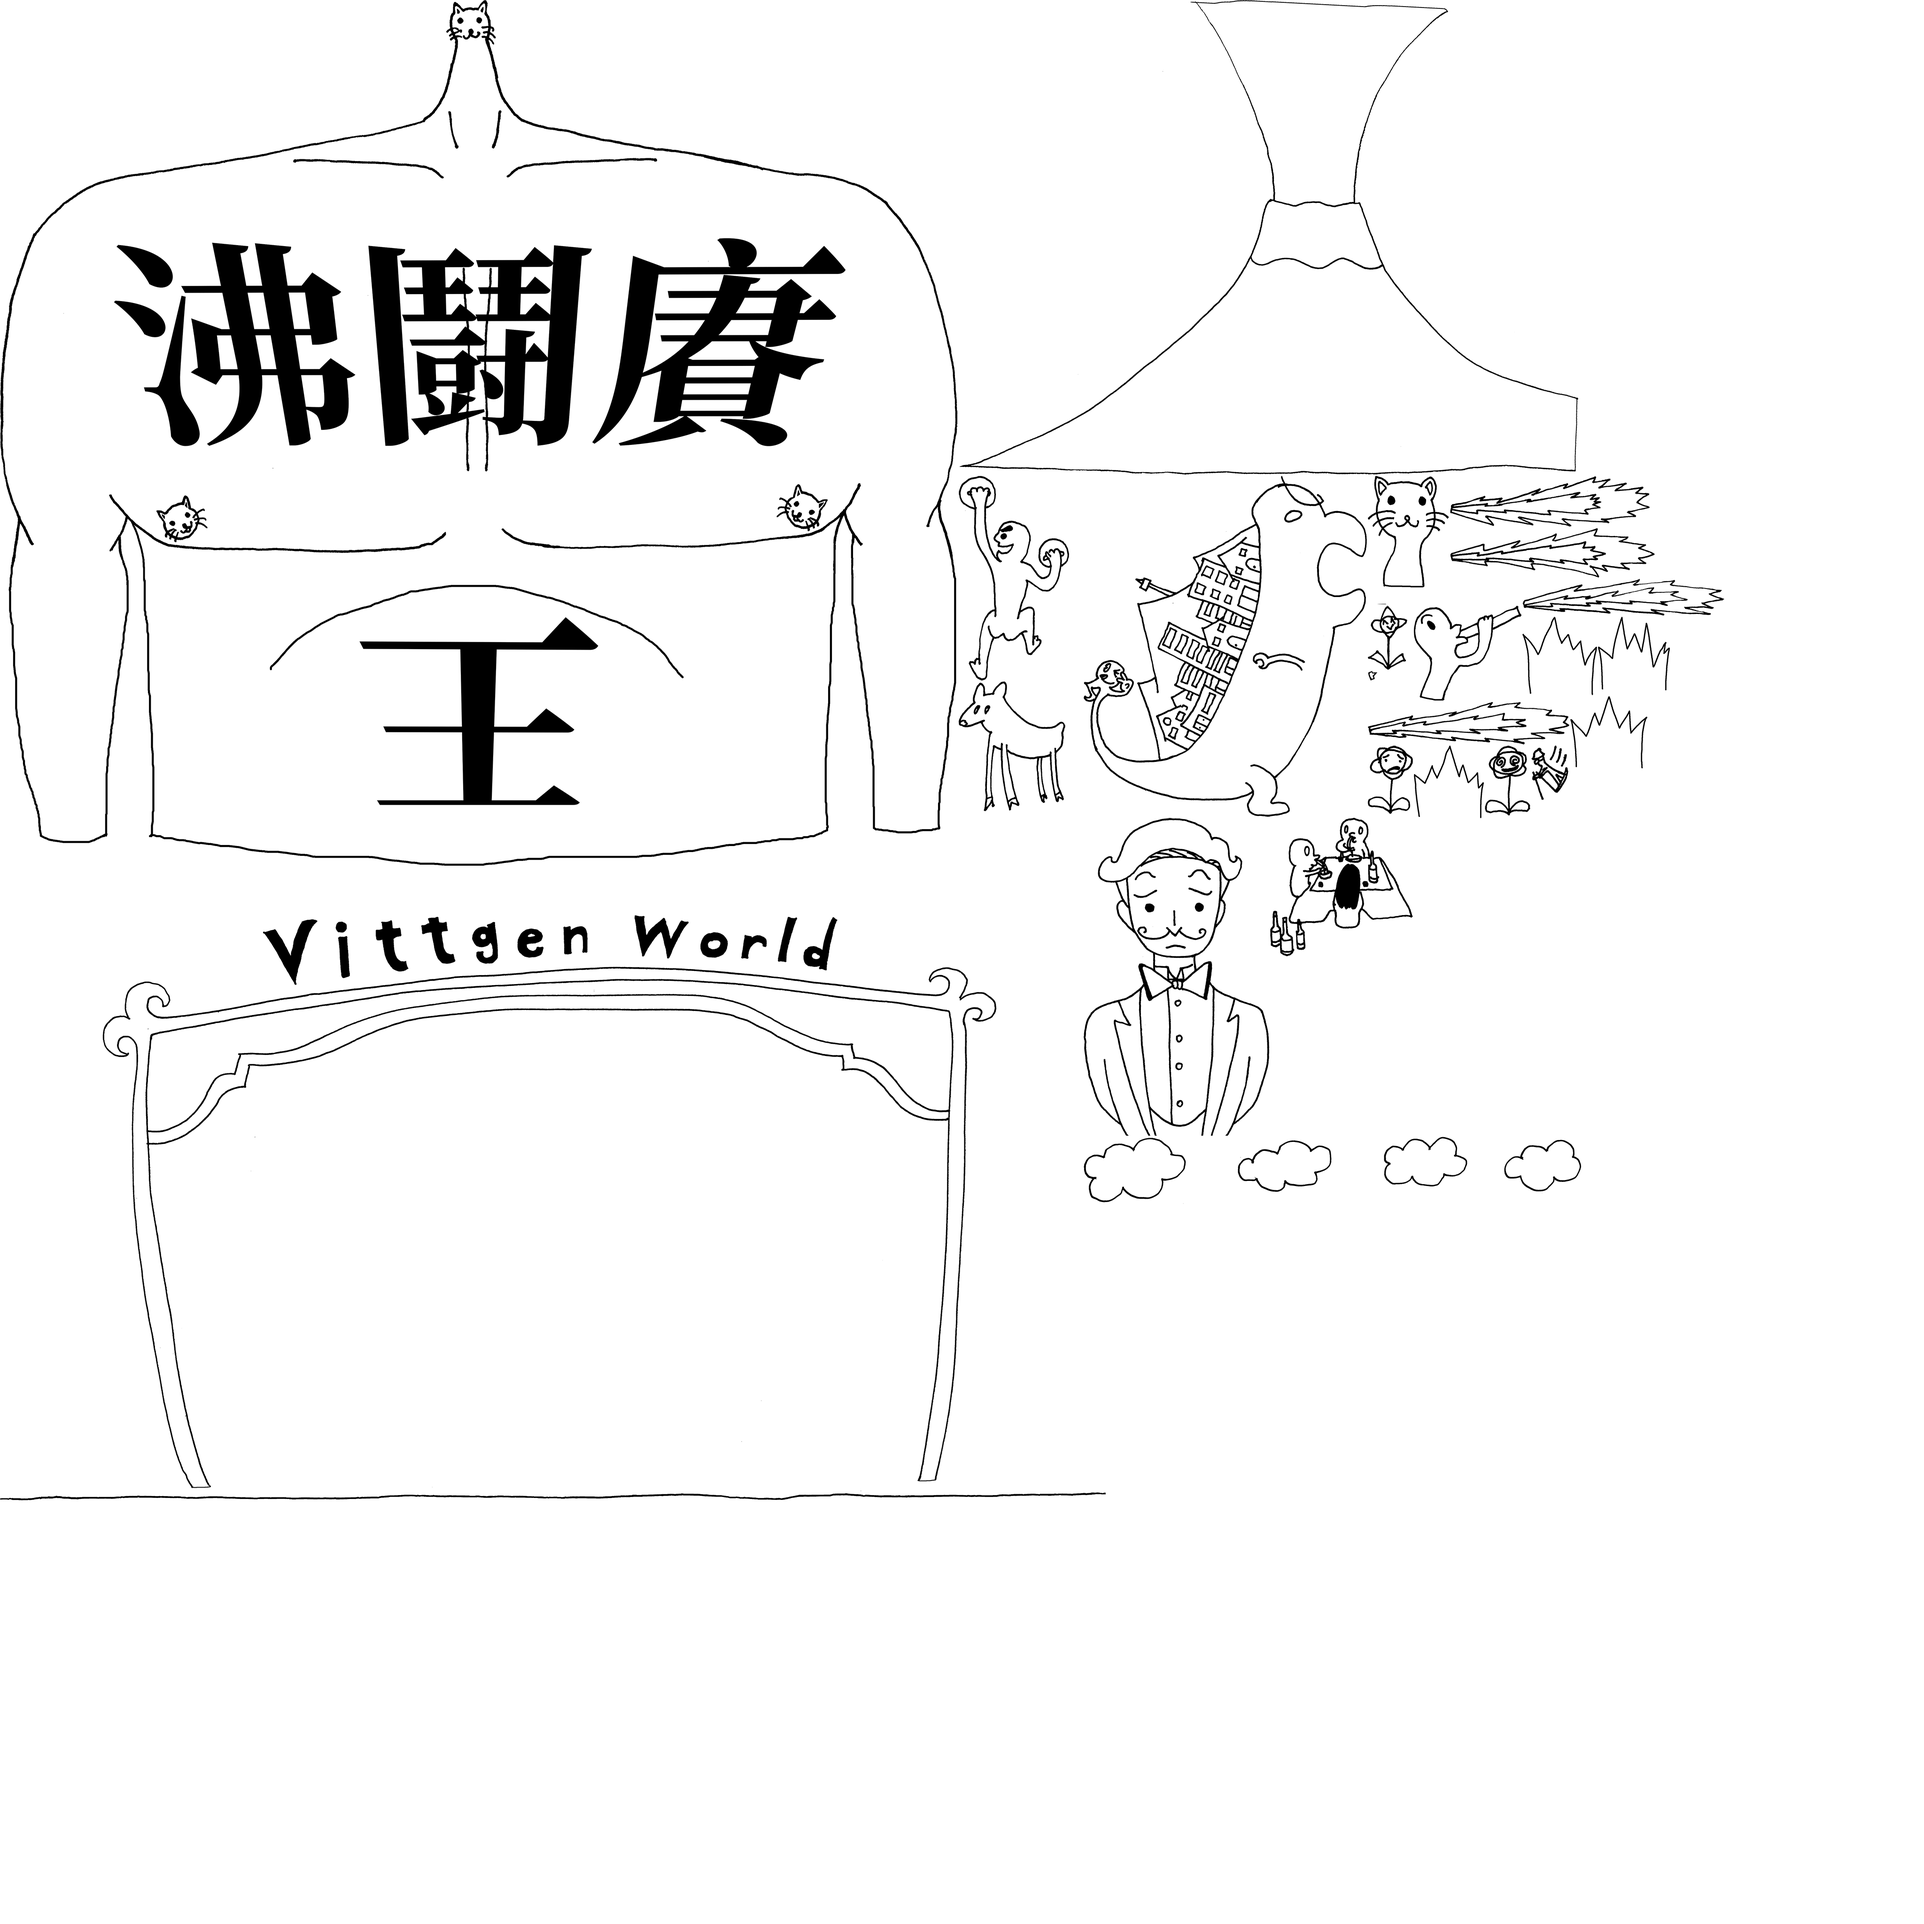
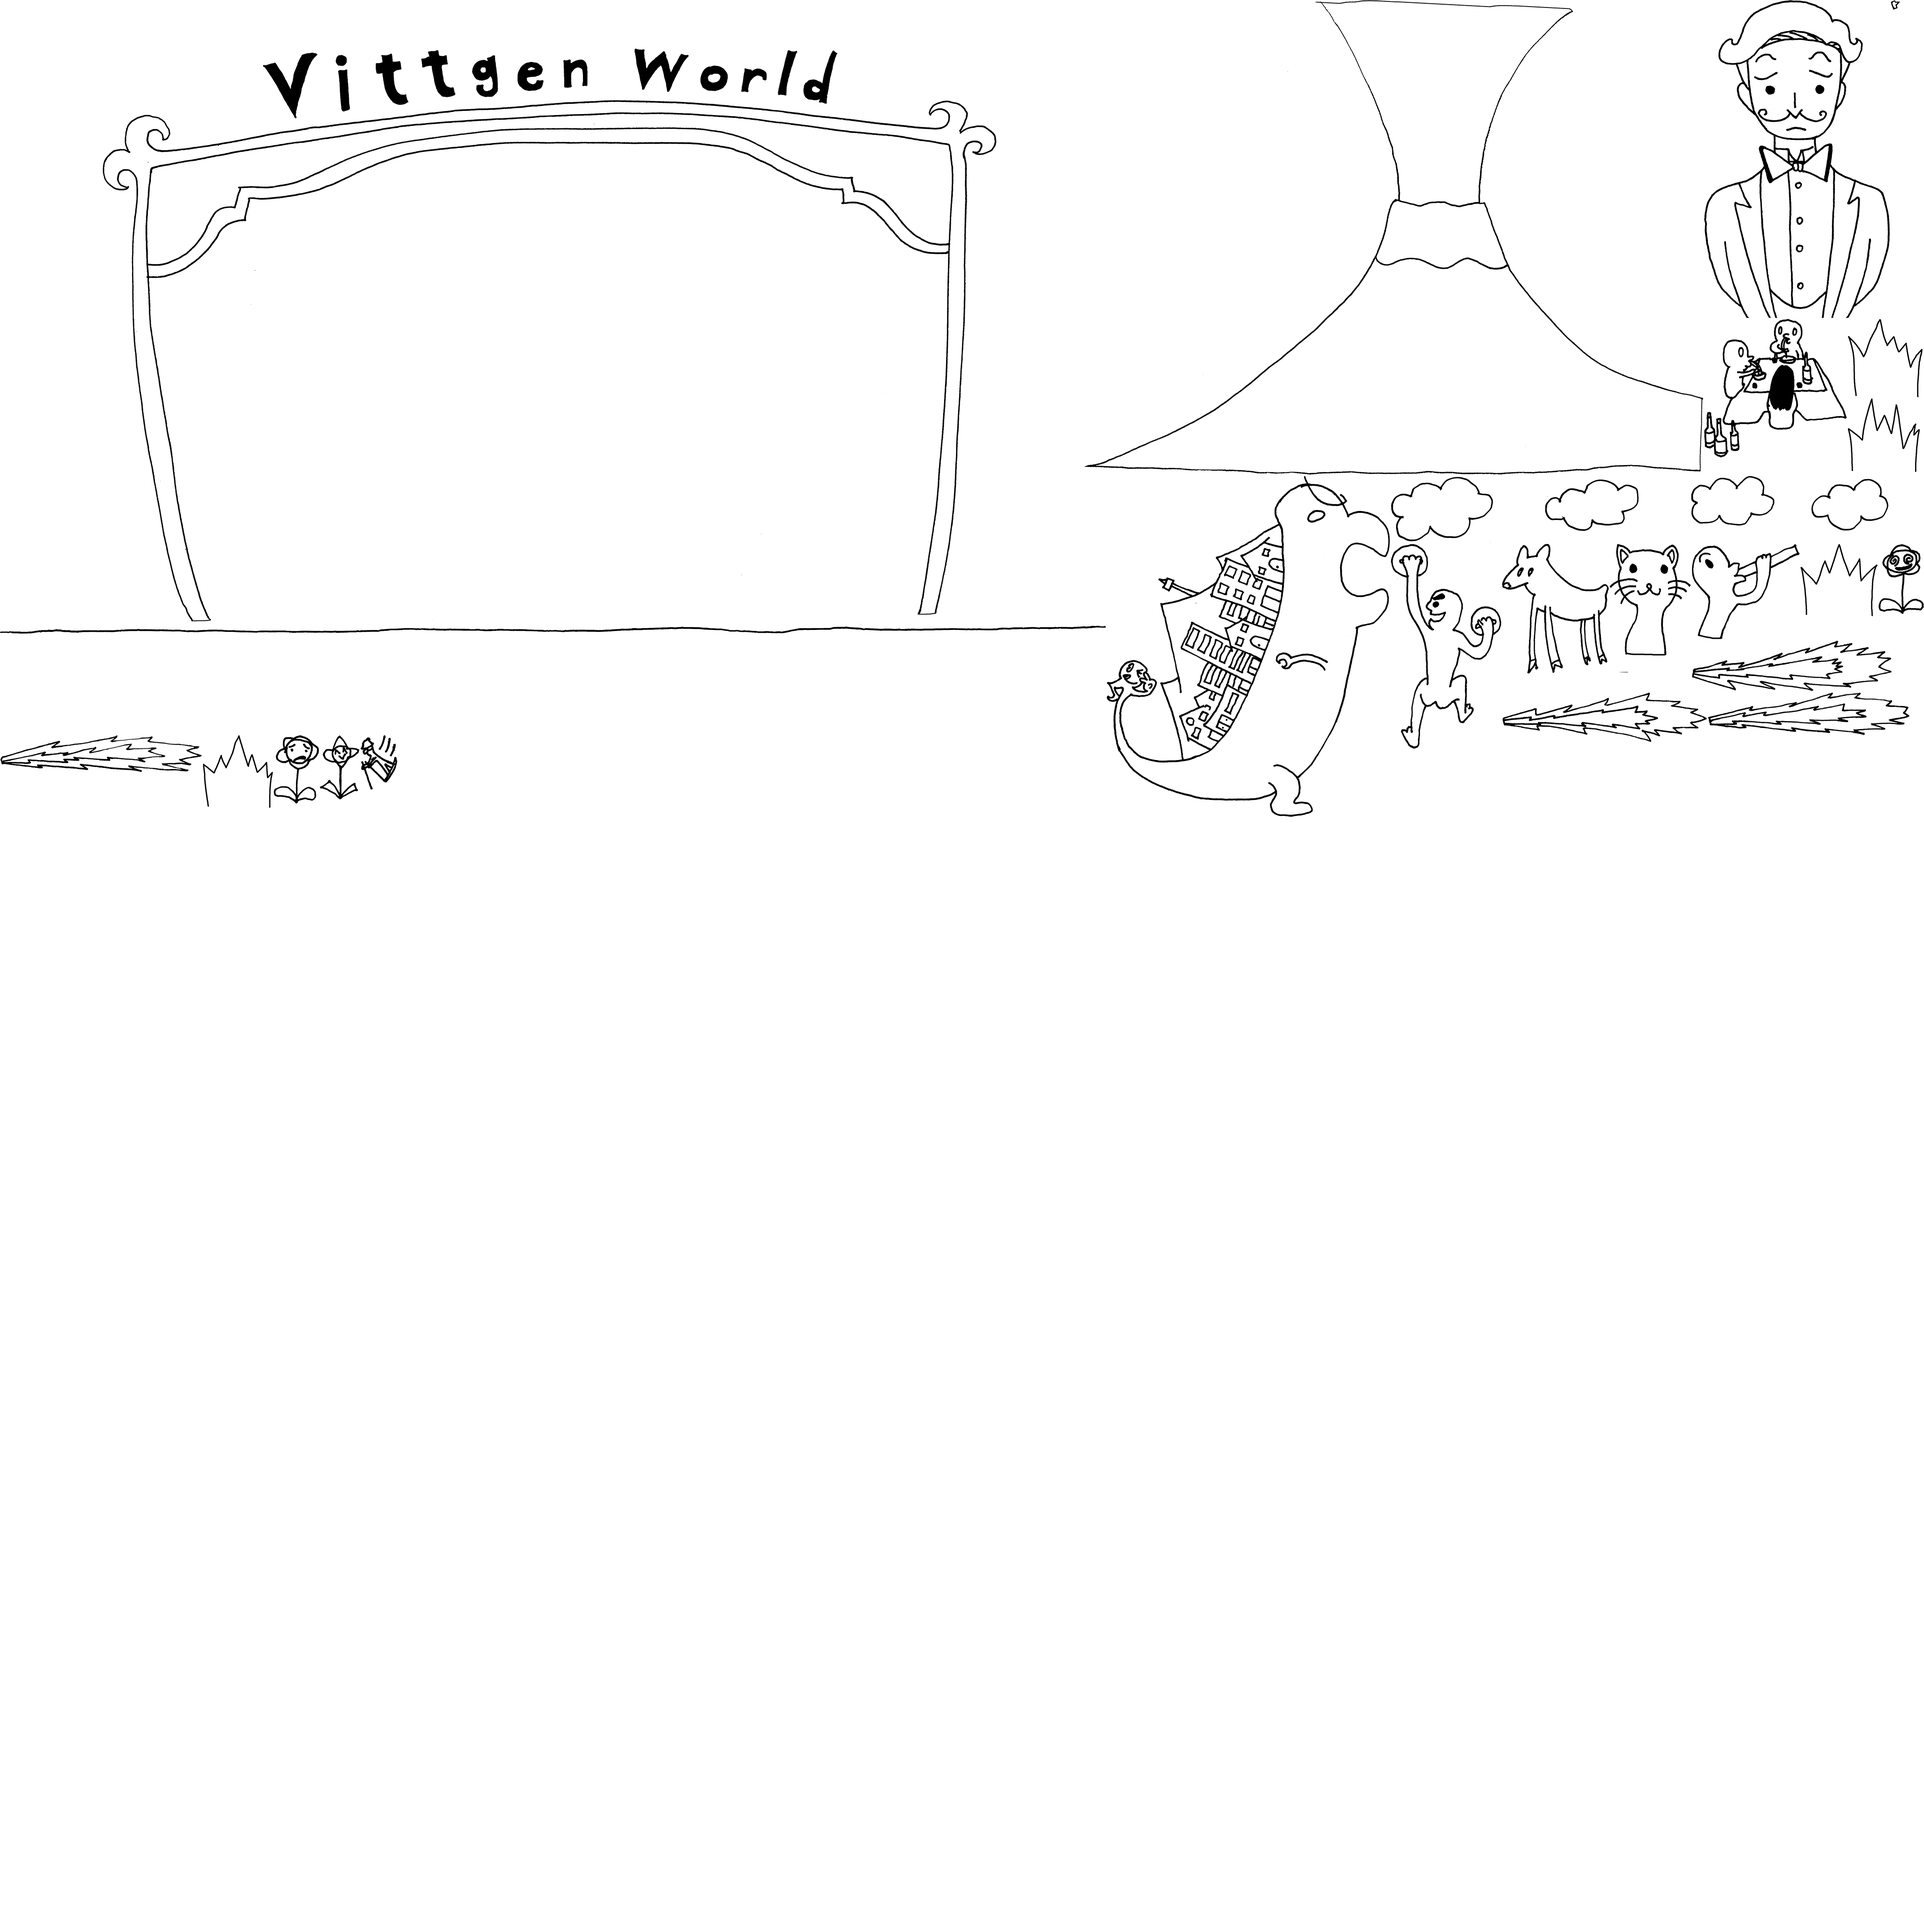
최적화

diff --git a/main.js b/main.js
@@ -3,7 +3,7 @@
 var p; // shortcut to reference prototypes
 var lib={};var ss={};var img={};
 lib.ssMetadata = [
-		{name:"main_atlas_", frames: [[0,0,2039,1843],[2041,1013,235,436],[3260,1587,79,116],[2307,1741,395,677],[0,1845,2305,1330],[2912,1494,429,91],[3087,1013,426,109],[3241,1232,430,79],[3087,1124,436,106],[2307,1013,603,726],[2307,2420,1059,143],[2704,1741,304,295],[2912,1013,173,274],[3161,1587,97,149],[2912,1289,84,137],[2912,1587,96,146],[3343,1482,164,154],[3402,1313,153,157],[3241,1313,159,167],[3010,1587,149,155],[2041,0,1319,1011],[0,3177,2354,231],[2041,1451,227,276],[2912,1428,20,21],[3010,1289,229,203]]}
+		{name:"main_atlas_", frames: [[2961,1158,235,436],[767,1565,79,116],[3628,0,395,677],[0,0,2305,1330],[3636,1474,429,91],[3602,1363,426,109],[0,1565,430,79],[3198,1474,436,106],[2356,1013,603,726],[2961,1013,1059,143],[3628,679,304,295],[3427,1158,173,274],[3999,1158,97,149],[681,1565,84,137],[583,1565,96,146],[3833,1158,164,154],[3934,848,153,157],[3934,679,159,167],[432,1565,149,155],[2307,0,1319,1011],[0,1332,2354,231],[3198,1158,227,276],[4025,0,20,21],[3602,1158,229,203]]}
 ];
 
 
@@ -11,177 +11,170 @@ lib.ssMetadata = [
 
 
 
-(lib.bigcat = function() {
+(lib.sprite1_0000_오른쪽클라이머 = function() {
 	this.spriteSheet = ss["main_atlas_"];
 	this.gotoAndStop(0);
 }).prototype = p = new cjs.Sprite();
 
 
 
-(lib.sprite1_0000_오른쪽클라이머 = function() {
+(lib.sprite1_0001_화산스키선수 = function() {
 	this.spriteSheet = ss["main_atlas_"];
 	this.gotoAndStop(1);
 }).prototype = p = new cjs.Sprite();
 
 
 
-(lib.sprite1_0001_화산스키선수 = function() {
+(lib.sprite1_0003_입다문아저씨 = function() {
 	this.spriteSheet = ss["main_atlas_"];
 	this.gotoAndStop(2);
 }).prototype = p = new cjs.Sprite();
 
 
 
-(lib.sprite1_0003_입다문아저씨 = function() {
+(lib.sprite1_0005_무대 = function() {
 	this.spriteSheet = ss["main_atlas_"];
 	this.gotoAndStop(3);
 }).prototype = p = new cjs.Sprite();
 
 
 
-(lib.sprite1_0005_무대 = function() {
+(lib.sprite1_0006_조선룡불꽃4 = function() {
 	this.spriteSheet = ss["main_atlas_"];
 	this.gotoAndStop(4);
 }).prototype = p = new cjs.Sprite();
 
 
 
-(lib.sprite1_0006_조선룡불꽃4 = function() {
+(lib.sprite1_0007_조선룡불꽃3 = function() {
 	this.spriteSheet = ss["main_atlas_"];
 	this.gotoAndStop(5);
 }).prototype = p = new cjs.Sprite();
 
 
 
-(lib.sprite1_0007_조선룡불꽃3 = function() {
+(lib.sprite1_0008_조선룡불꽃2 = function() {
 	this.spriteSheet = ss["main_atlas_"];
 	this.gotoAndStop(6);
 }).prototype = p = new cjs.Sprite();
 
 
 
-(lib.sprite1_0008_조선룡불꽃2 = function() {
+(lib.sprite1_0009_조선룡불꽃1 = function() {
 	this.spriteSheet = ss["main_atlas_"];
 	this.gotoAndStop(7);
 }).prototype = p = new cjs.Sprite();
 
 
 
-(lib.sprite1_0009_조선룡불꽃1 = function() {
+(lib.sprite1_0010_조선룡 = function() {
 	this.spriteSheet = ss["main_atlas_"];
 	this.gotoAndStop(8);
 }).prototype = p = new cjs.Sprite();
 
 
 
-(lib.sprite1_0010_조선룡 = function() {
+(lib.sprite1_0011_구름 = function() {
 	this.spriteSheet = ss["main_atlas_"];
 	this.gotoAndStop(9);
 }).prototype = p = new cjs.Sprite();
 
 
 
-(lib.sprite1_0011_구름 = function() {
+(lib.sprite1_0012_비트겐 = function() {
 	this.spriteSheet = ss["main_atlas_"];
 	this.gotoAndStop(10);
 }).prototype = p = new cjs.Sprite();
 
 
 
-(lib.sprite1_0012_비트겐 = function() {
+(lib.sprite1_0013_왼쪽고양이 = function() {
 	this.spriteSheet = ss["main_atlas_"];
 	this.gotoAndStop(11);
 }).prototype = p = new cjs.Sprite();
 
 
 
-(lib.sprite1_0013_왼쪽고양이 = function() {
+(lib.sprite1_0014_취한꽃 = function() {
 	this.spriteSheet = ss["main_atlas_"];
 	this.gotoAndStop(12);
 }).prototype = p = new cjs.Sprite();
 
 
 
-(lib.sprite1_0014_취한꽃 = function() {
+(lib.sprite1_0015_웃는꽃 = function() {
 	this.spriteSheet = ss["main_atlas_"];
 	this.gotoAndStop(13);
 }).prototype = p = new cjs.Sprite();
 
 
 
-(lib.sprite1_0015_웃는꽃 = function() {
+(lib.sprite1_0016_짜증나는꽃 = function() {
 	this.spriteSheet = ss["main_atlas_"];
 	this.gotoAndStop(14);
 }).prototype = p = new cjs.Sprite();
 
 
 
-(lib.sprite1_0016_짜증나는꽃 = function() {
+(lib.sprite1_0018_화산폭발효과4 = function() {
 	this.spriteSheet = ss["main_atlas_"];
 	this.gotoAndStop(15);
 }).prototype = p = new cjs.Sprite();
 
 
 
-(lib.sprite1_0018_화산폭발효과4 = function() {
+(lib.sprite1_0019_화산폭발효과3 = function() {
 	this.spriteSheet = ss["main_atlas_"];
 	this.gotoAndStop(16);
 }).prototype = p = new cjs.Sprite();
 
 
 
-(lib.sprite1_0019_화산폭발효과3 = function() {
+(lib.sprite1_0020_화산폭발효과2 = function() {
 	this.spriteSheet = ss["main_atlas_"];
 	this.gotoAndStop(17);
 }).prototype = p = new cjs.Sprite();
 
 
 
-(lib.sprite1_0020_화산폭발효과2 = function() {
+(lib.sprite1_0021_화산폭발효과1 = function() {
 	this.spriteSheet = ss["main_atlas_"];
 	this.gotoAndStop(18);
 }).prototype = p = new cjs.Sprite();
 
 
 
-(lib.sprite1_0021_화산폭발효과1 = function() {
+(lib.sprite1_0022_화산 = function() {
 	this.spriteSheet = ss["main_atlas_"];
 	this.gotoAndStop(19);
 }).prototype = p = new cjs.Sprite();
 
 
 
-(lib.sprite1_0022_화산 = function() {
+(lib.sprite1_0023_바닥 = function() {
 	this.spriteSheet = ss["main_atlas_"];
 	this.gotoAndStop(20);
 }).prototype = p = new cjs.Sprite();
 
 
 
-(lib.sprite1_0023_바닥 = function() {
+(lib.sprite1_0025_고라니 = function() {
 	this.spriteSheet = ss["main_atlas_"];
 	this.gotoAndStop(21);
 }).prototype = p = new cjs.Sprite();
 
 
 
-(lib.sprite1_0025_고라니 = function() {
+(lib.독침 = function() {
 	this.spriteSheet = ss["main_atlas_"];
 	this.gotoAndStop(22);
 }).prototype = p = new cjs.Sprite();
 
 
 
-(lib.독침 = function() {
-	this.spriteSheet = ss["main_atlas_"];
-	this.gotoAndStop(23);
-}).prototype = p = new cjs.Sprite();
-
-
-
 (lib.독침맨png복사본 = function() {
 	this.spriteSheet = ss["main_atlas_"];
-	this.gotoAndStop(24);
+	this.gotoAndStop(23);
 }).prototype = p = new cjs.Sprite();
 // helper functions:
 
@@ -363,6 +356,20 @@ p.nominalBounds = new cjs.Rectangle(0,0,596.2,457);
 	this.timeline.addTween(cjs.Tween.get(this.instance).wait(1));
 
 }).prototype = getMCSymbolPrototype(lib.team, new cjs.Rectangle(-106,-156,205.2,199.1), null);
+
+
+(lib.Main = function(mode,startPosition,loop) {
+	this.initialize(mode,startPosition,loop,{});
+
+	// 레이어_1
+	this.instance = new lib.sprite1_0003_입다문아저씨();
+	this.instance.parent = this;
+	this.instance.setTransform(-134.3,-230.2,0.68,0.68);
+
+	this.timeline.addTween(cjs.Tween.get(this.instance).wait(1).to({scaleX:0.71,scaleY:0.71,x:-140,y:-240},0).wait(1));
+
+}).prototype = p = new cjs.MovieClip();
+p.nominalBounds = new cjs.Rectangle(-134.3,-230.2,268.7,460.5);
 
 
 (lib.Gorany = function(mode,startPosition,loop) {
@@ -561,13 +568,14 @@ p.nominalBounds = new cjs.Rectangle(-1520,200,1564.7,592.4);
 	this.initialize(mode,startPosition,loop,{});
 
 	// 아저씨
-	this.instance = new lib.climer();
+	this.instance = new lib.Main();
 	this.instance.parent = this;
-	this.instance.setTransform(1534.3,415.9);
+	this.instance.setTransform(781.3,745.2);
+	new cjs.ButtonHelper(this.instance, 0, 1, 1);
 
-	this.instance_1 = new lib.sprite1_0003_입다문아저씨();
+	this.instance_1 = new lib.climer();
 	this.instance_1.parent = this;
-	this.instance_1.setTransform(647,515,0.68,0.68);
+	this.instance_1.setTransform(1534.3,415.9);
 
 	this.instance_2 = new lib.sprite1_0005_무대();
 	this.instance_2.parent = this;
@@ -630,14 +638,10 @@ p.nominalBounds = new cjs.Rectangle(-1520,200,1564.7,592.4);
 	this.instance_12.parent = this;
 	this.instance_12.setTransform(1706.1,423.9,1.588,1.588,0,0,0,261.9,35.4);
 
-	this.instance_13 = new lib.bigcat();
-	this.instance_13.parent = this;
-	this.instance_13.setTransform(125.8,-183.3,0.566,0.566,5);
-
-	this.timeline.addTween(cjs.Tween.get({}).to({state:[{t:this.instance_13},{t:this.instance_12},{t:this.instance_11},{t:this.instance_10},{t:this.instance_9}]}).wait(1));
+	this.timeline.addTween(cjs.Tween.get({}).to({state:[{t:this.instance_12},{t:this.instance_11},{t:this.instance_10},{t:this.instance_9}]}).wait(1));
 
 }).prototype = p = new cjs.MovieClip();
-p.nominalBounds = new cjs.Rectangle(723,316.7,2193,1431);
+p.nominalBounds = new cjs.Rectangle(723,456,2193,1291.7);
 // library properties:
 lib.properties = {
 	id: '49B61085D53CCC44B86B0C1022297DD9',
@@ -647,7 +651,7 @@ lib.properties = {
 	color: "#FFFFFF",
 	opacity: 1.00,
 	manifest: [
-		{src:"images/main_atlas_.png?1537102973405", id:"main_atlas_"}
+		{src:"images/main_atlas_.png?1537114745301", id:"main_atlas_"}
 	],
 	preloads: []
 };

diff --git a/index.html b/index.html
@@ -11,7 +11,7 @@
 <head>
 <meta charset="UTF-8">
 <meta name="authoring-tool" content="Adobe_Animate_CC">
-<title>Welcome to Gorany World!</title>
+<title>main</title>
 <!-- write your code here -->
 <style>
   #animation_container {
@@ -22,7 +22,7 @@
   }
 </style>
 <script src="https://code.createjs.com/createjs-2015.11.26.min.js"></script>
-<script src="main.js?1537102973501"></script>
+<script src="main.js?1537114745431"></script>
 <script>
 var canvas, stage, exportRoot, anim_container, dom_overlay_container, fnStartAnimation;
 function init() {
@@ -51,7 +51,8 @@ function handleComplete(evt,comp) {
 		ss[ssMetadata[i].name] = new createjs.SpriteSheet( {"images": [queue.getResult(ssMetadata[i].name)], "frames": ssMetadata[i].frames} )
 	}
 	exportRoot = new lib.main();
-	stage = new lib.Stage(canvas);	
+	stage = new lib.Stage(canvas);
+	stage.enableMouseOver();	
 	//Registers the "tick" event listener.
 	fnStartAnimation = function() {
 		stage.addChild(exportRoot);
